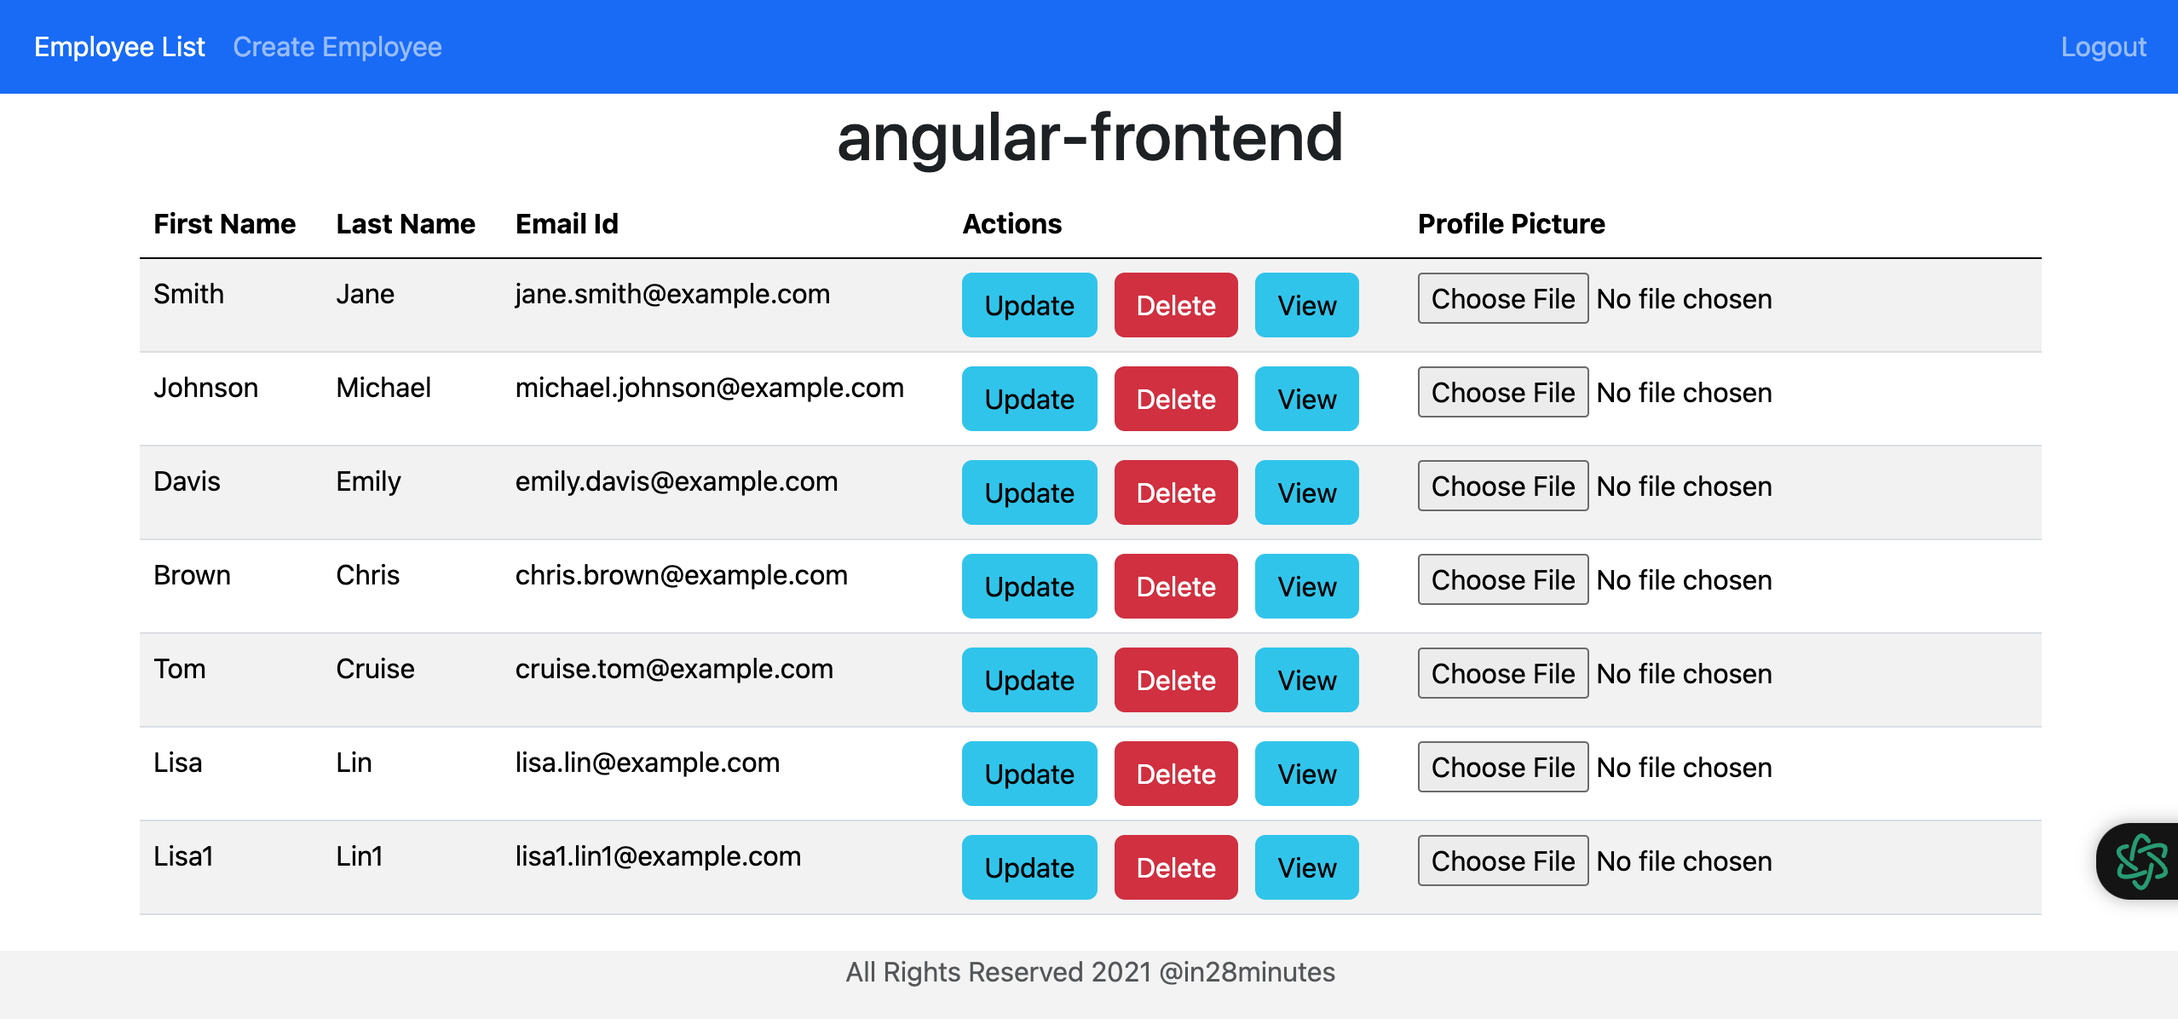
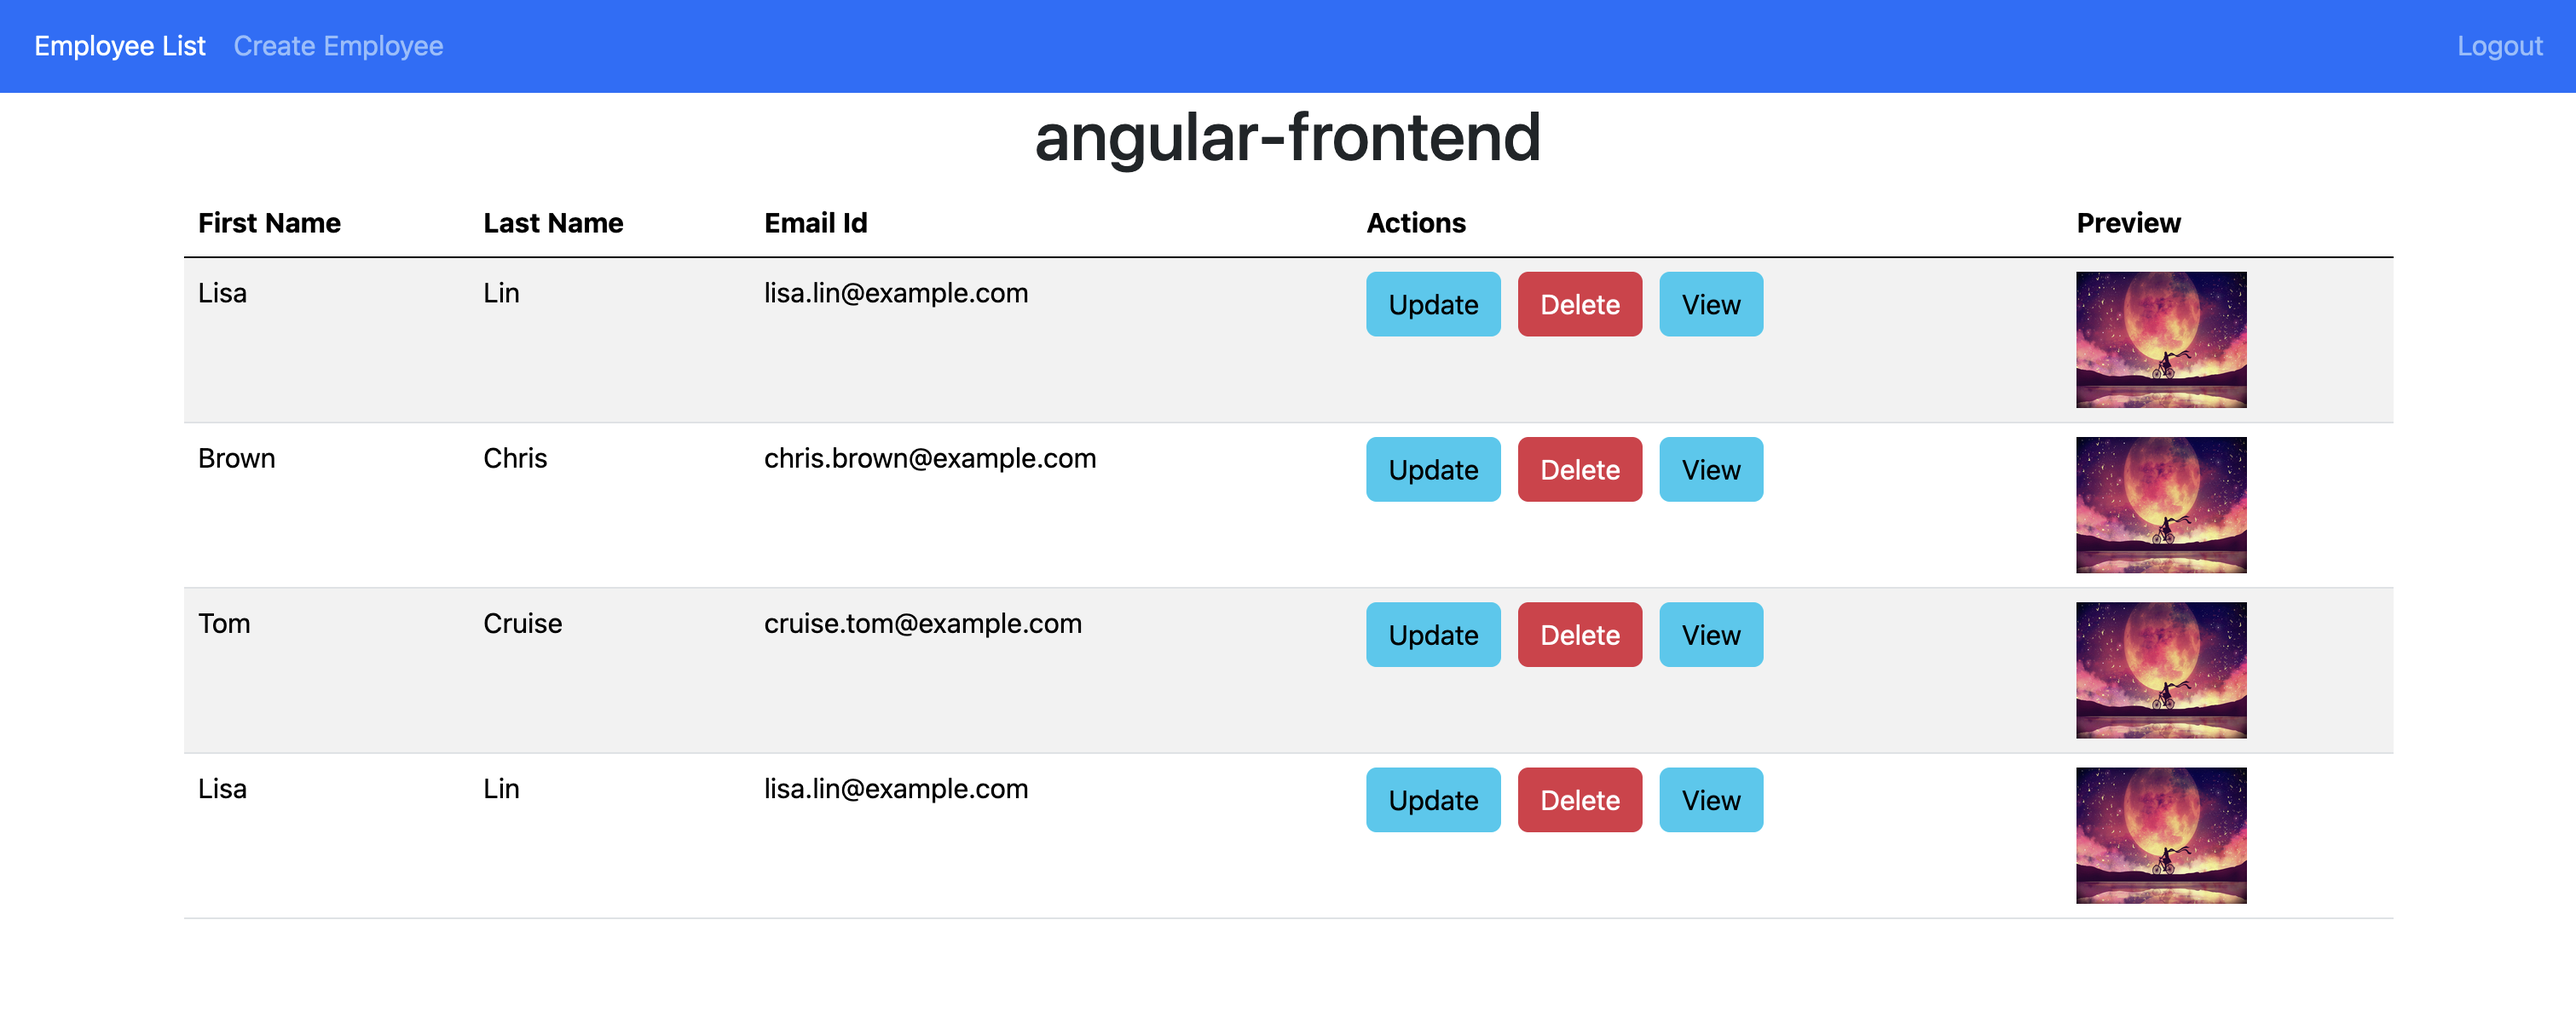
add preview

diff --git a/src/app/create-employee/create-employee.component.ts b/src/app/create-employee/create-employee.component.ts
@@ -10,11 +10,16 @@ import { Router } from '@angular/router';
 })
 export class CreateEmployeeComponent implements OnInit {
   employee: Employee = new Employee();
-  constructor(private employservice: EmployeeService, private router: Router) {}
+  selectedFile: File = new File([''], 'default');
+  constructor(
+    private employeeService: EmployeeService,
+    private router: Router
+  ) {}
 
   ngOnInit(): void {}
+
   saveEmployee() {
-    this.employservice.createEmployee(this.employee).subscribe(
+    this.employeeService.createEmployee(this.employee).subscribe(
       (data) => {
         //console.log(data);
         this.goToEmployeeList();
@@ -26,7 +31,48 @@ export class CreateEmployeeComponent implements OnInit {
     this.router.navigate(['/employees']);
   }
   onSubmit() {
-    //console.log(this.employee);
-    this.saveEmployee();
+    if (this.selectedFile) {
+      const formData = new FormData();
+      formData.append('file', this.selectedFile);
+      // Step 1: Upload the image
+      this.employeeService.uploadImage(formData).subscribe(
+        (response: any) => {
+          const flag = response.data;
+          // Assuming the response contains the flag
+          this.employee.imageName = this.selectedFile?.name || '';
+          this.employee.imageUrl = `http://localhost:8081/api/v1/files/${flag}`;
+          console.log('Flag:', response.data);
+          console.log('Image URL:', this.employee.imageUrl);
+          // Step 2: Create the employee with the image information
+          this.employeeService.createEmployee(this.employee).subscribe(() => {
+            this.router.navigate(['/employees']);
+          });
+        },
+        (error) => {
+          console.error('Error uploading image', error);
+        }
+      );
+    } else {
+      this.employeeService.createEmployee(this.employee).subscribe(() => {
+        this.router.navigate(['/employees']);
+      });
+    }
+  }
+
+  /*onFileSelected(event: any) {
+    this.selectedFile = event.target.files[0];
+    this.employee.imageUrl = this.selectedFile.lastModified;
+    console.log(this.employee.imageUrl);
+  }*/
+  onFileSelected(event: Event): void {
+    const input = event.target as HTMLInputElement;
+    if (input.files && input.files.length > 0) {
+      this.selectedFile = input.files[0];
+      const reader = new FileReader();
+      reader.onload = (e: any) => {
+        this.employee.imageUrl = e.target.result;
+      };
+      reader.readAsDataURL(this.selectedFile);
+    }
   }
 }

diff --git a/src/app/employee-list/employee-list.component.html b/src/app/employee-list/employee-list.component.html
@@ -5,8 +5,7 @@
       <th>Last Name</th>
       <th>Email Id</th>
       <th>Actions</th>
-      <th>Profile Picture</th>
-      <!-- 添加图片预览列 -->
+      <th>Preview</th>
     </tr>
   </thead>
   <tbody>
@@ -14,6 +13,7 @@
       <td>{{ employee.firstName }}</td>
       <td>{{ employee.lastName }}</td>
       <td>{{ employee.emailId }}</td>
+
       <td>
         <button (click)="updateEmployee(employee.id)" class="btn btn-info">
           Update
@@ -34,12 +34,11 @@
         </button>
       </td>
       <td>
-        <input type="file" (change)="onFileSelected($event, employee.id)" />
         <img
           *ngIf="employee.imageUrl"
           [src]="employee.imageUrl"
-          alt="Profile Picture"
-          width="100"
+          width="100px"
+          height="80px"
         />
       </td>
     </tr>

diff --git a/src/app/employee-list/employee-list.component.ts b/src/app/employee-list/employee-list.component.ts
@@ -21,6 +21,8 @@ export class EmployeeListComponent implements OnInit {
   private getEmployees() {
     this.employeeService.getEmployeesList().subscribe((data) => {
       this.employees = data;
+      //console.log('employee.imageUrl: ', employee.imageUrl);
+      console.log(this.employees);
     });
   }
   employeeDetails(id: number) {
@@ -35,6 +37,5 @@ export class EmployeeListComponent implements OnInit {
       this.getEmployees();
     });
   }
-
   onFileSelected(event: any, employeeId: number) {}
 }

diff --git a/src/app/create-employee/create-employee.component.html b/src/app/create-employee/create-employee.component.html
@@ -34,6 +34,14 @@
         required
       />
     </div>
-    <button class="btn btn-success" type="submit">Submit</button>
+    <div class="form-group">
+      <label> Picture Profile</label>
+      <br />
+      <input type="file" (change)="onFileSelected($event)" />
+      <img *ngIf="employee.imageUrl" [src]="employee.imageUrl" width="100%" />
+    </div>
+    <button class="btn btn-success" style="margin-top: 10px" type="submit">
+      Submit
+    </button>
   </form>
 </div>

diff --git a/src/app/app.component.html b/src/app/app.component.html
@@ -37,8 +37,8 @@
   <router-outlet></router-outlet>
 </div>
 
-<footer class="footer">
+<!--footer class="footer">
   <div class="container">
-    <span class="text-muted">All Rights Reserved 2021 @in28minutes</span>
+    <span class="text-muted">All Rights Reserved 2021 @lisa</span>
   </div>
-</footer>
+</footer-->

diff --git a/src/app/employee-details/employee-details.component.html b/src/app/employee-details/employee-details.component.html
@@ -9,4 +9,13 @@
   <div>
     <label> <b>Email Id:</b> </label>{{ employee.emailId }}
   </div>
+  <div>
+    <label> <b>Preview:</b> </label>
+    <img
+      *ngIf="employee.imageUrl"
+      [src]="employee.imageUrl"
+      width="100px"
+      height="80px"
+    />
+  </div>
 </div>

diff --git a/src/app/employee.service.ts b/src/app/employee.service.ts
@@ -29,4 +29,10 @@ export class EmployeeService {
       responseType: 'text',
     });
   }
+  uploadImage(formData: FormData): Observable<Object> {
+    return this.httpClient.post(
+      'http://localhost:8081/api/v1/files/upload',
+      formData
+    );
+  }
 }

diff --git a/src/app/employee.ts b/src/app/employee.ts
@@ -4,5 +4,6 @@ export class Employee {
   lastName: string = '';
   emailId: string = '';
   password: string = '';
+  imageName: string = '';
   imageUrl: string = '';
 }

diff --git a/README.md b/README.md
@@ -6,29 +6,15 @@ This project was generated with [Angular CLI](https://github.com/angular/angular
 
 Run `ng serve` for a dev server. Navigate to `http://localhost:4200/`. The application will automatically reload if you change any of the source files.
 
-## Code scaffolding
-
-Run `ng generate component component-name` to generate a new component. You can also use `ng generate directive|pipe|service|class|guard|interface|enum|module`.
-
-## Build
-
-Run `ng build` to build the project. The build artifacts will be stored in the `dist/` directory.
-
-## Running unit tests
-
-Run `ng test` to execute the unit tests via [Karma](https://karma-runner.github.io).
-
-## Running end-to-end tests
-
-Run `ng e2e` to execute the end-to-end tests via a platform of your choice. To use this command, you need to first add a package that implements end-to-end testing capabilities.
-
 ## screenshots
 
-### Authorisation System(Use JWT)
+### Authorisation System(JWT)
 
 <div align="center">
     <img src="src/assets/images/login.png" width="70%" />
 </div>
+Name: admin<br>
+Password: admin
 
 ## Employee Table
 
